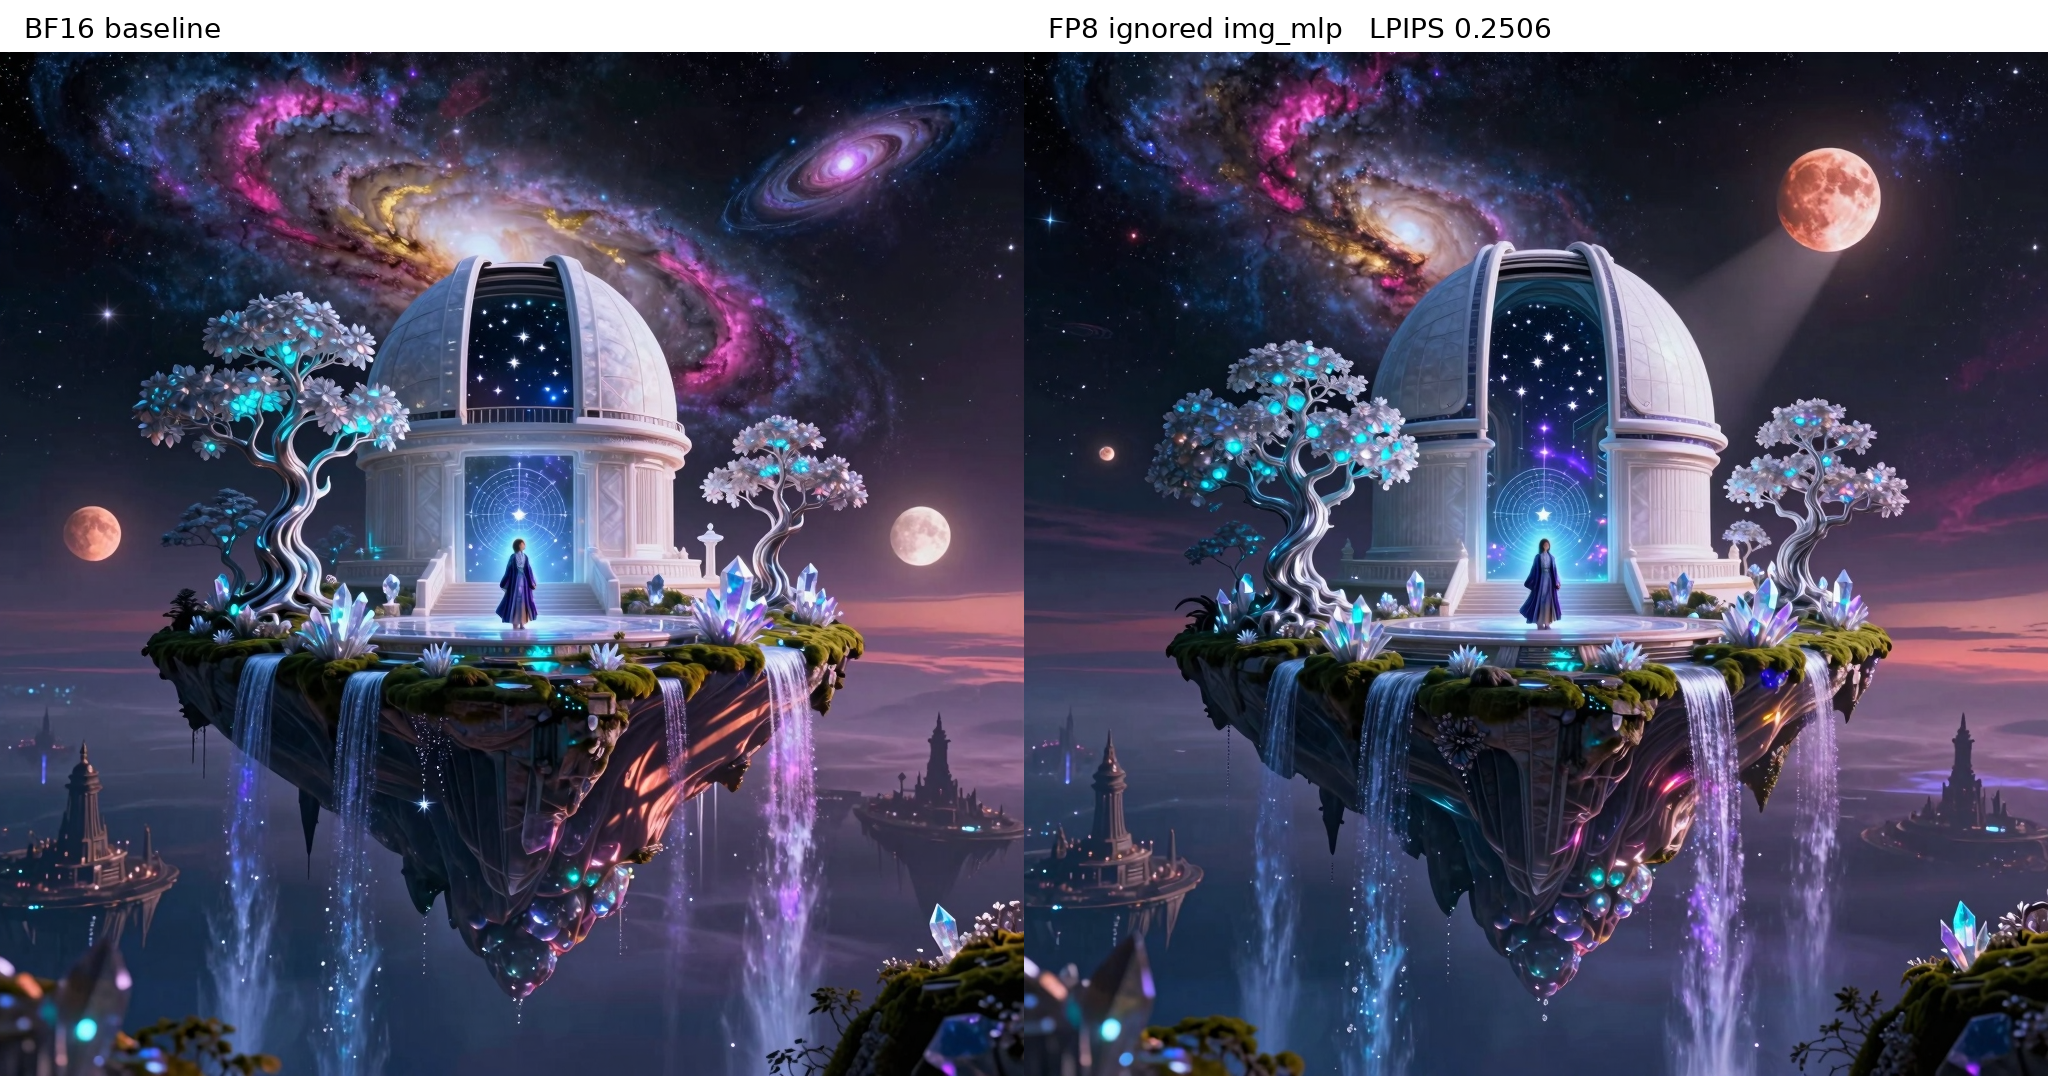
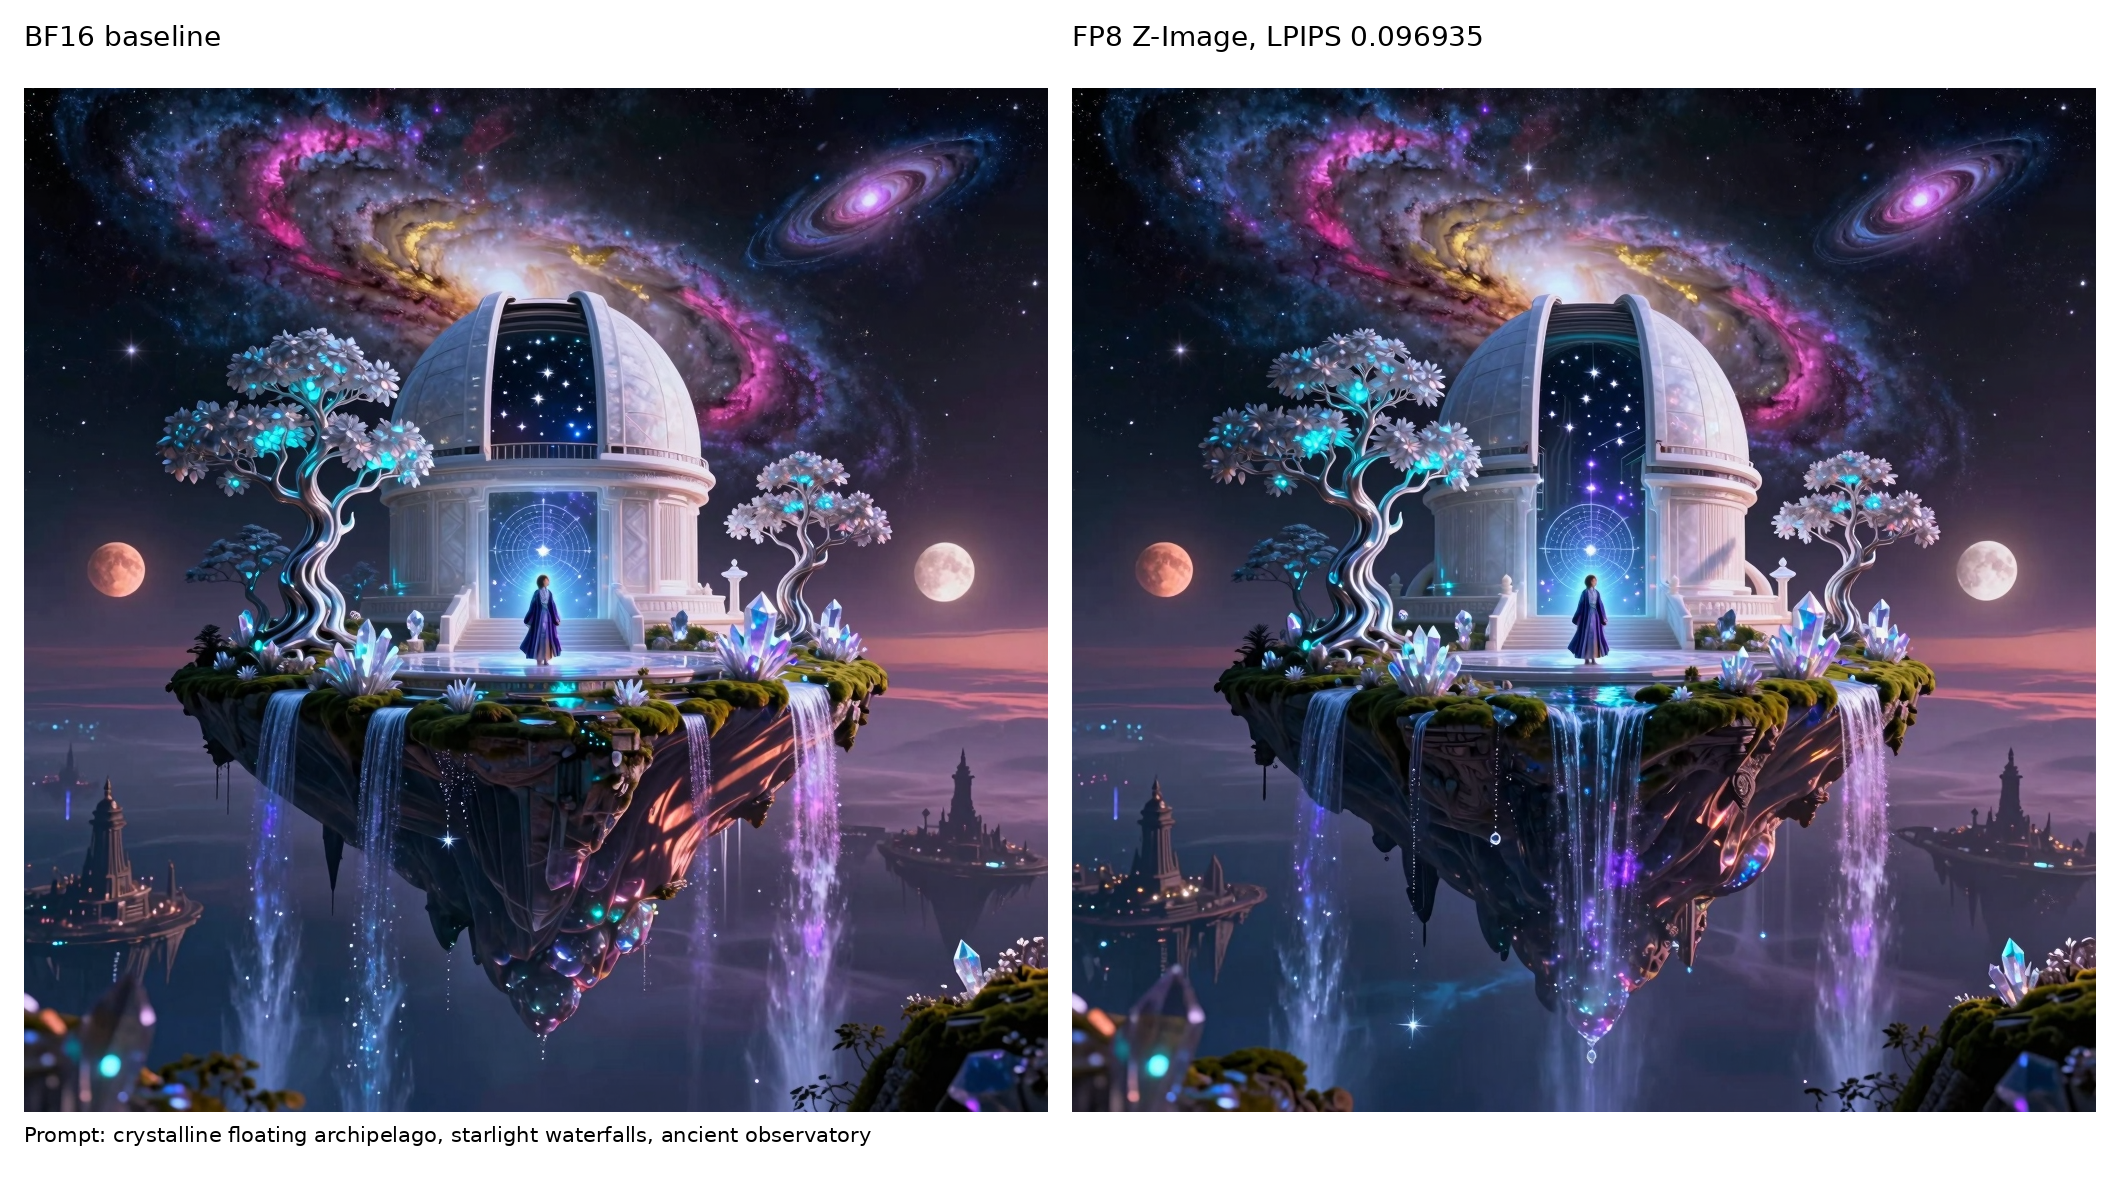
Fix FP8 Z-Image quality gate

diff --git a/tests/diffusion/quantization/test_fp8_config.py b/tests/diffusion/quantization/test_fp8_config.py
@@ -213,6 +213,35 @@ def test_integration_per_component():
     assert config.quantization_config.component_configs["vae"] is None
 
 
+def test_recursive_replace_linear_resolves_component_quantization(monkeypatch):
+    from vllm_omni.diffusion.data import OmniDiffusionConfig
+    from vllm_omni.diffusion.models import utils
+
+    model = nn.Module()
+    model.text_encoder = nn.Sequential(nn.Linear(2, 2))
+    model.transformer = nn.Sequential(nn.Linear(2, 2))
+    config = OmniDiffusionConfig(
+        model="test",
+        quantization_config={
+            "transformer": {"method": "fp8"},
+            "default": None,
+        },
+    )
+
+    calls = {}
+
+    def fake_replace(linear, style, quant_config, *, prefix):
+        calls[prefix] = quant_config
+        return nn.Identity()
+
+    monkeypatch.setattr(utils, "replace_linear_class", fake_replace)
+
+    utils.recursive_replace_linear(model, config)
+
+    assert calls["text_encoder.0"] is None
+    assert calls["transformer.0"].get_name() == "fp8"
+
+
 def test_transformer_config_auto_detects_modelopt_fp8():
     from vllm.model_executor.layers.quantization.modelopt import ModelOptFp8Config
 

diff --git a/tests/diffusion/quantization/test_quantization_quality.py b/tests/diffusion/quantization/test_quantization_quality.py
@@ -118,7 +118,25 @@ QUALITY_CONFIGS = [
     QualityTestConfig(
         id="fp8_z_image",
         model="Tongyi-MAI/Z-Image-Turbo",
-        quantization={"method": "fp8", "ignored_layers": ["img_mlp"]},
+        quantization={
+            "transformer": {
+                "method": "fp8",
+                "ignored_layers": [
+                    "img_mlp",
+                    *[
+                        f"layers.{layer_id}.{suffix}"
+                        for layer_id in range(15, 30)
+                        for suffix in (
+                            "attention.to_qkv",
+                            "attention.to_out.0",
+                            "feed_forward.w13",
+                            "feed_forward.w2",
+                        )
+                    ],
+                ],
+            },
+            "default": None,
+        },
         task="t2i",
         prompt=(
             "A breathtaking twilight scene atop a floating archipelago of crystalline islands suspended in an "
@@ -141,7 +159,7 @@ QUALITY_CONFIGS = [
             "starlight waterfalls. Ethereal, melancholic, and transcendent mood—like a moment of quiet revelation "
             "at the edge of existence."
         ),
-        max_lpips=0.15,
+        max_lpips=0.10,
         num_inference_steps=20,
     ),
     QualityTestConfig(

diff --git a/vllm_omni/diffusion/models/utils.py b/vllm_omni/diffusion/models/utils.py
@@ -19,6 +19,7 @@ from vllm.model_executor.models.utils import maybe_prefix
 
 from vllm_omni.diffusion.data import OmniDiffusionConfig
 from vllm_omni.quantization import build_quant_config
+from vllm_omni.quantization.component_config import ComponentQuantizationConfig
 
 if TYPE_CHECKING:
     from transformers import PretrainedConfig, PreTrainedModel
@@ -87,7 +88,17 @@ def recursive_replace_linear(model: nn.Module, od_config: OmniDiffusionConfig):
             # Replace modules as needed
             if isinstance(child_module, nn.Linear):
                 style = "replicate"
-                new_module = replace_linear_class(child_module, style, quant_config, prefix=qual_name)
+                child_quant_config = (
+                    quant_config.resolve(qual_name)
+                    if isinstance(quant_config, ComponentQuantizationConfig)
+                    else quant_config
+                )
+                new_module = replace_linear_class(
+                    child_module,
+                    style,
+                    child_quant_config,
+                    prefix=qual_name,
+                )
             else:
                 _recursive_replace(child_module, prefix=qual_name)
             if new_module is not child_module:

diff --git a/vllm_omni/diffusion/models/z_image/pipeline_z_image.py b/vllm_omni/diffusion/models/z_image/pipeline_z_image.py
@@ -45,6 +45,7 @@ from vllm_omni.diffusion.request import OmniDiffusionRequest
 from vllm_omni.model_executor.model_loader.weight_utils import (
     download_weights_from_hf_specific,
 )
+from vllm_omni.quantization.component_config import ComponentQuantizationConfig
 
 logger = logging.get_logger(__name__)  # pylint: disable=invalid-name
 
@@ -218,7 +219,10 @@ class ZImagePipeline(nn.Module, DiffusionPipelineProfilerMixin):
 
         vae_config = DistributedAutoencoderKL.load_config(model, subfolder="vae", local_files_only=local_files_only)
         self.vae = DistributedAutoencoderKL.from_config(vae_config).to(self._execution_device)
-        self.transformer = ZImageTransformer2DModel(quant_config=od_config.quantization_config)
+        quant_config = od_config.quantization_config
+        if isinstance(quant_config, ComponentQuantizationConfig):
+            quant_config = quant_config.resolve("transformer")
+        self.transformer = ZImageTransformer2DModel(quant_config=quant_config)
         self.tokenizer = AutoTokenizer.from_pretrained(model, subfolder="tokenizer", local_files_only=local_files_only)
 
         # Note: Context parallelism is applied centrally in registry.initialize_model()

diff --git a/tests/diffusion/quantization/artifacts/fp8_z_image_quality/README.md b/tests/diffusion/quantization/artifacts/fp8_z_image_quality/README.md
@@ -13,16 +13,28 @@ VLLM_OMNI_QUALITY_OUTPUT_DIR=$PWD/tests/diffusion/quantization/artifacts/fp8_z_i
 Quantized config:
 
 ```python
-{"method": "fp8", "ignored_layers": ["img_mlp"]}
+{
+    "transformer": {
+        "method": "fp8",
+        "ignored_layers": [
+            "img_mlp",
+            "layers.15..29.{attention.to_qkv,attention.to_out.0,feed_forward.w13,feed_forward.w2}",
+        ],
+    },
+    "default": None,
+}
 ```
 
-Result: failed with the current `max_lpips=0.15` threshold.
+Result: passed with `max_lpips=0.10`.
 
 | Metric | Value |
 |--------|-------|
-| LPIPS | 0.250578 |
-| PSNR | 17.042153 dB |
-| MAE | 0.076899 |
+| LPIPS | 0.096935 |
+| PSNR | 21.893253 dB |
+| MAE | 0.037334 |
+
+Timing from the scan run for this config: BF16 `2.297244s`, FP8 `2.062006s`
+(`0.8976x` of BF16 generation time).
 
 ## Comparison
 